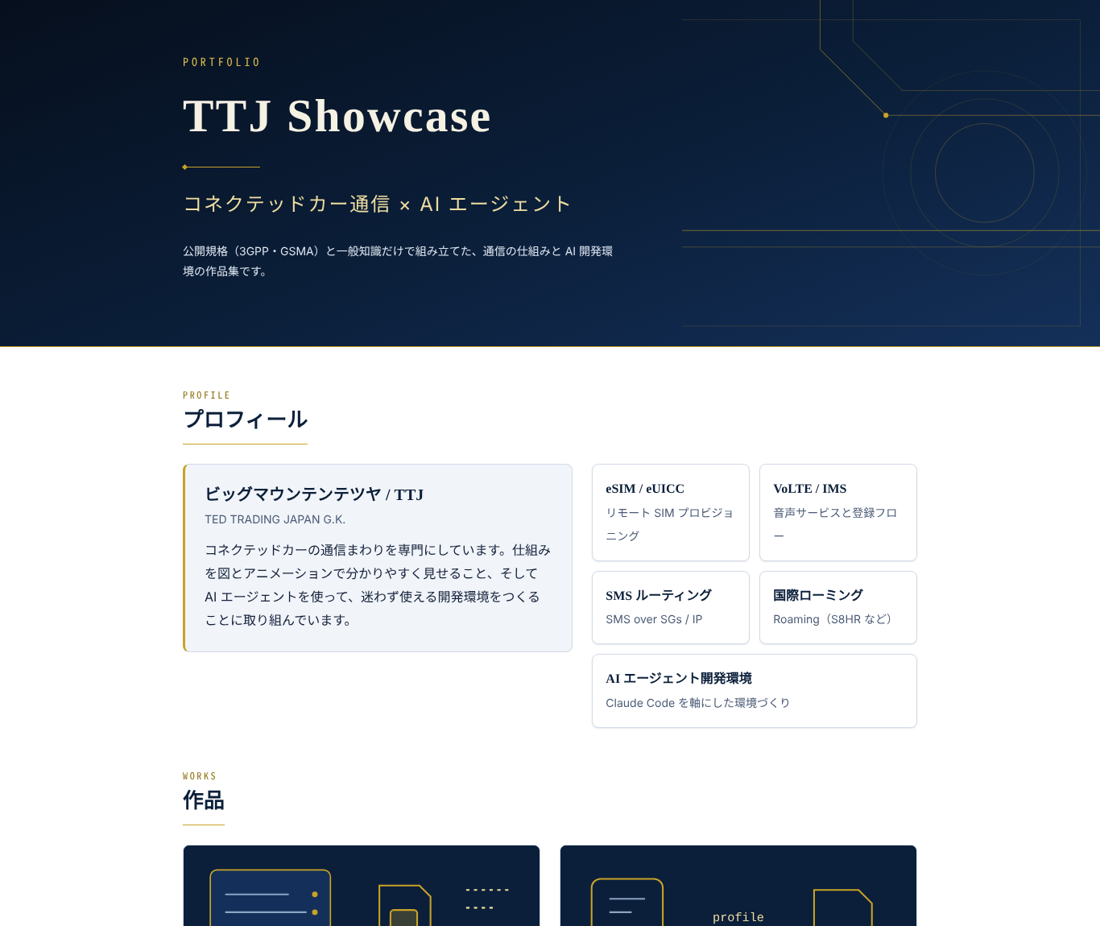
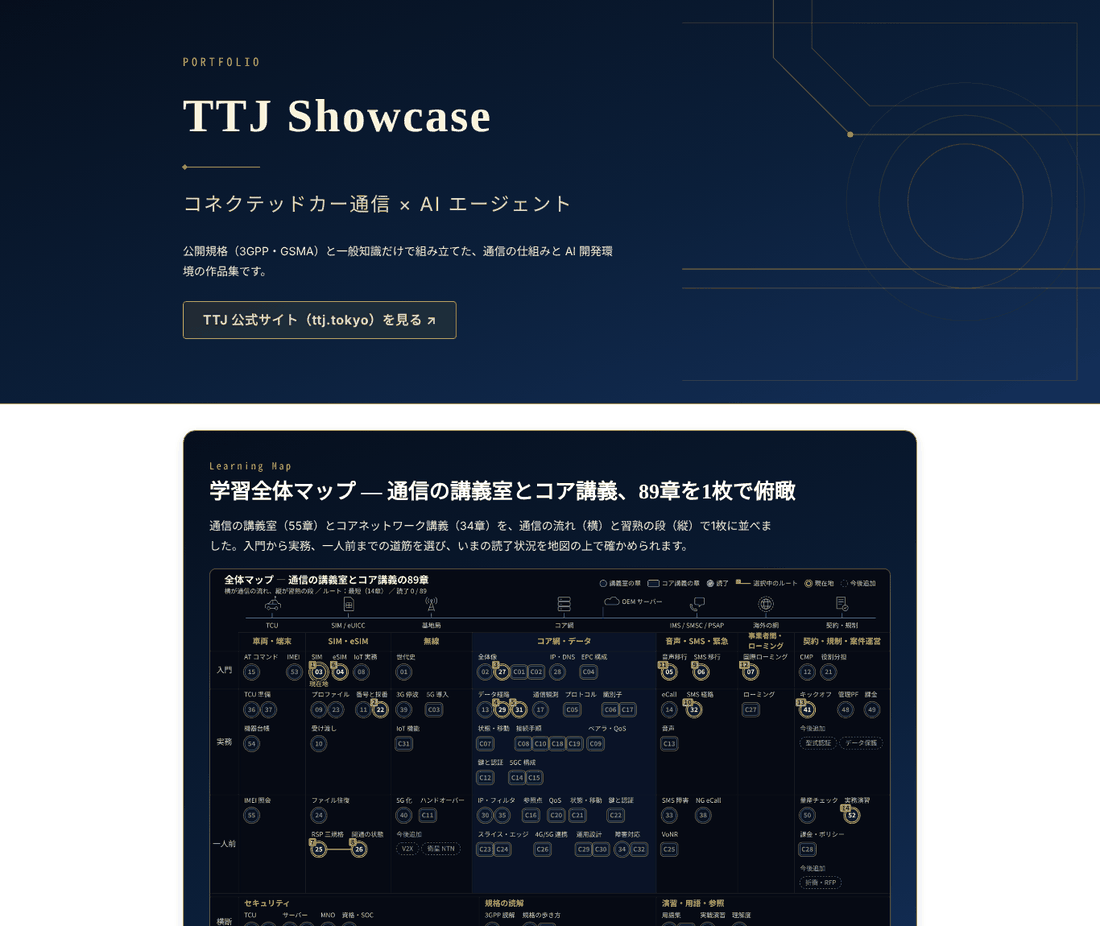
通信の講義室：章へ移動するときいったん先頭へ戻る動きを解消し、地図の再描画を静かにする／README の画面写真を更新
- 章末の「次へ」・目次・章ジャンプ・地図の点・キーボードで章へ移動すると、スクロール位置が先頭（0）へ置き直されてから
  目的の章へ滑る動きを、実測（Chromium のトレース）で確認した。章内リンクの移動を JS で指定する方式に変更（現在位置から動く）。
  URL に #章 を付けて開いたときも、先頭から滑らずその章を直接表示する。「戻る」で元の位置へ戻れる。
- 全体マップ：読了や読了イベントで内容が変わらないときは DOM を差し替えない。幅合わせで width を空にして測り直す往復をやめた。
- README の docs/images/portfolio.png を、特集枠を足した現在のポートフォリオ上部（1366px）に差し替え。

Claude-Session: https://claude.ai/code/session_01TAiW6LFh45hysCjaHYhst4

diff --git a/showcase/sdv-dojo/index.html b/showcase/sdv-dojo/index.html
@@ -852,6 +852,51 @@ nav#side a.ns-nav{margin-top:14px;border-left-color:var(--ttj-gold-500);color:va
 .lh-map th{position:sticky;top:0;background:var(--m-panel);color:var(--m-goldink);}
 .lh-map td a{color:var(--m-blue);}
 </style>
+<script>
+/* 章内リンク（#…）の移動：ブラウザ任せのフラグメント移動ではなく、ここで移動先を指定して動かす。
+   背景：実機（Chromium）の計測で、最初の同一文書内リンクのクリック直後に、スクロール位置がいったん先頭（0）へ
+   置き直され、そこから目的の章まで滑る、という動きが再現した（長い一枚ページ＋スムーズスクロール）。
+   移動先を JS で指定すれば、現在位置からそのまま動く。<head> に置くので、DOM の用意を待たない。 */
+(function(){
+ 'use strict';
+ var root=document.documentElement;
+ function decode(h){try{return decodeURIComponent(h);}catch(e){return null;}}
+ /* 移動先に Tab の起点を移す。見た目の枠は出さない（操作できる部品ではないため） */
+ var st=document.createElement('style');
+ st.textContent='[data-sdv-jump]:focus{outline:none;}';
+ document.head.appendChild(st);
+ function jump(id){
+  var t=id?document.getElementById(id):null;if(!t)return false;
+  if(location.hash!=='#'+id){
+   try{history.pushState(null,'','#'+id);}catch(e){location.hash=id;return true;}   /* 「戻る」で元の位置へ戻れる */
+  }
+  /* 既存の revealHash が、絞り込みと折りたたみを解く（hashchange を購読している） */
+  try{window.dispatchEvent(new HashChangeEvent('hashchange'));}catch(e){}
+  t.scrollIntoView({block:'start'});                    /* CSS の scroll-behavior と scroll-margin-top に従う */
+  if(!/^(A|BUTTON|INPUT|SELECT|TEXTAREA|SUMMARY)$/.test(t.tagName)&&!t.hasAttribute('tabindex')){t.setAttribute('tabindex','-1');t.setAttribute('data-sdv-jump','');}
+  try{t.focus({preventScroll:true});}catch(e){}
+  return true;
+ }
+ window.sdvJump=jump;
+ document.addEventListener('click',function(e){
+  if(e.defaultPrevented||e.button!==0||e.metaKey||e.ctrlKey||e.shiftKey||e.altKey)return;
+  var a=e.target.closest&&e.target.closest('a[href^="#"]');if(!a)return;
+  var tg=a.getAttribute('target');if(tg&&tg!=='_self')return;
+  var h=a.getAttribute('href');if(h.length<2)return;
+  var id=decode(h.slice(1));if(!id||!document.getElementById(id))return;
+  e.preventDefault();jump(id);
+ });
+ /* URL に #章 を付けて開いたときは、先頭から滑らせず、その章を直接表示する */
+ if(location.hash.length>1){
+  root.style.scrollBehavior='auto';
+  var back=function(){root.style.scrollBehavior='';};
+  window.addEventListener('load',function(){setTimeout(back,600);});
+  window.addEventListener('wheel',back,{once:true,passive:true});
+  window.addEventListener('touchstart',back,{once:true,passive:true});
+  window.addEventListener('keydown',back,{once:true});
+ }
+})();
+</script>
 </head>
 <body>
 <a class="sdv-skip" href="#sdv-overview">学習メニュー（検索）へ移動</a>
@@ -3741,7 +3786,7 @@ function revealHash(){
 }
 window.addEventListener('hashchange',revealHash);
 document.addEventListener('click',e=>{const a=e.target.closest('a[href^="#"]');if(a&&a.hash&&a.hash===location.hash)setTimeout(revealHash,0);});
-$('sdv-chapter-select').onchange=e=>{const v=e.target.value;if(!v)return;if(location.hash==='#'+v)revealHash();else location.hash=v;e.target.value='';};
+$('sdv-chapter-select').onchange=e=>{const v=e.target.value;if(!v)return;if(window.sdvJump)window.sdvJump(v);else if(location.hash==='#'+v)revealHash();else location.hash=v;e.target.value='';};
 $('sdv-motion').onclick=()=>{const off=document.body.classList.toggle('sdv-motion-off');$('sdv-motion').setAttribute('aria-pressed',off?'true':'false');$('sdv-motion').textContent=off?'動きを再開':'動きを止める';};
 let printDetails=[];window.addEventListener('beforeprint',()=>{printDetails=[...document.querySelectorAll('main details')].map(d=>[d,d.open]);printDetails.forEach(x=>{x[0].open=true;});});window.addEventListener('afterprint',()=>printDetails.forEach(x=>{x[0].open=x[1];}));
 const toTop=document.querySelector('.sdv-to-top');
@@ -4154,10 +4199,15 @@ var MAPDATA={"cols":[{"k":"T","name":"車両・端末","x":80,"w":190,"icon":"tc
 
  /* ---------- 描画 ---------- */
  var dynEl=null;
+ /* 同じ内容のときは差し替えない（高さ・フォーカス・ホバーを動かさない） */
+ var memo={};
+ function setHtml(key,el,html){if(memo[key]===html&&el.firstChild)return false;memo[key]=html;el.innerHTML=html;return true;}
+ function setText(el,t){if(el.textContent!==t)el.textContent=t;}
  function renderAll(){
   var st=getState();
   if(!rov||!userMoved)rov=st.cur||'S01';
   var C=liveC;
+  memo.dyn=null;
   stageEl.innerHTML=svgOpen(kind,{})+'<g>'+(kind==='h'?bgH(C,{}):bgV(C,{}))+'</g><g id="lhMapDyn"></g></svg>';
   dynEl=stageEl.querySelector('#lhMapDyn');
   stageEl.setAttribute('data-layout',kind);
@@ -4165,7 +4215,9 @@ var MAPDATA={"cols":[{"k":"T","name":"車両・端末","x":80,"w":190,"icon":"tc
  }
  function paintDyn(st,anim){
   var act=document.activeElement,keep=(act&&act.classList&&act.classList.contains('mn')&&stageEl.contains(act))?act.getAttribute('data-id'):null;
-  dynEl.innerHTML=dynMarkup(kind,st,liveC,{anim:anim&&!reduce.matches});
+  var html=dynMarkup(kind,st,liveC,{anim:anim&&!reduce.matches});
+  if(!anim&&memo.dyn===html)return;
+  memo.dyn=html;dynEl.innerHTML=html;
   if(anim&&!reduce.matches){
    var p=dynEl.querySelector('path.rt0');
    if(p){requestAnimationFrame(function(){requestAnimationFrame(function(){p.classList.remove('rt0');});});}
@@ -4176,7 +4228,7 @@ var MAPDATA={"cols":[{"k":"T","name":"車両・端末","x":80,"w":190,"icon":"tc
   var st=getState();
   if(!userMoved)rov=st.cur||'S01';
   paintDyn(st,anim);
-  cntEl.textContent='読了 '+st.n+' / '+CH.length+(st.cur?'':'　このルートは読了');
+  setText(cntEl,'読了 '+st.n+' / '+CH.length+(st.cur?'':'　このルートは読了'));
   buildTable(st);buildOrder(st);
   if(selId)showDetail(selId,st);
   hideTip();
@@ -4186,13 +4238,13 @@ var MAPDATA={"cols":[{"k":"T","name":"車両・端末","x":80,"w":190,"icon":"tc
  var ordEl=$('lhMapOrder'),ordH=$('lhMapOrderH');
  function buildOrder(st){
   if(!ordEl)return;
-  ordH.textContent='順路の一覧 ― '+st.route.name+'ルート（'+st.route.ids.length+'章）';
+  setText(ordH,'順路の一覧 ― '+st.route.name+'ルート（'+st.route.ids.length+'章）');
   var h=[];
   st.route.ids.forEach(function(id){
    var it=byId[id],rd=st.isRead(it),cu=st.cur===id,no=(it.course==='sdv'?'':'C')+it.num;
    h.push('<li'+(rd?' class="rd"':'')+(cu?' class="cu"':'')+'><a href="'+esc(it.href)+'"><span class="no">'+no+'</span><span class="tt">'+esc(it.title)+'</span>'+(cu?'<span class="st cur">現在地</span>':(rd?'<span class="st">読了</span>':''))+'</a></li>');
   });
-  ordEl.innerHTML=h.join('');
+  setHtml('ord',ordEl,h.join(''));
  }
 
  /* ---------- 表（代替表示） ---------- */
@@ -4202,7 +4254,7 @@ var MAPDATA={"cols":[{"k":"T","name":"車両・端末","x":80,"w":190,"icon":"tc
    var d=describe(it,st);
    h.push('<tr><td>'+d.k+'</td><td><a href="'+esc(it.href)+'">'+esc(it.title)+'</a></td><td>'+esc(d.area)+'</td><td>'+esc(d.stage)+'</td><td>'+(d.read?'読了':'未読')+'</td></tr>');
   });
-  tblBody.innerHTML=h.join('');
+  setHtml('tbl',tblBody,h.join(''));
  }
 
  /* ---------- ツールチップ・詳細欄 ---------- */
@@ -4381,9 +4433,11 @@ var MAPDATA={"cols":[{"k":"T","name":"車両・端末","x":80,"w":190,"icon":"tc
  /* ---------- 幅に合わせる（実幅で 横長／縦長 を切り替える） ---------- */
  function fit(){
   var parent=sec.parentNode,vw=document.documentElement.clientWidth;
-  sec.style.width='';sec.style.marginLeft='';
+  /* 親の左端は、この枠の幅や余白に左右されない。測るために width を空にして戻す、という往復をしない */
   var W=vw<700?vw:Math.min(1880,vw-32),pl=parent.getBoundingClientRect().left;
-  sec.style.width=W+'px';sec.style.marginLeft=Math.round((vw-W)/2-pl)+'px';
+  var nw=W+'px',nm=Math.round((vw-W)/2-pl)+'px';
+  if(sec.style.width!==nw)sec.style.width=nw;
+  if(sec.style.marginLeft!==nm)sec.style.marginLeft=nm;
   var nk=sec.clientWidth>=HMIN?'h':'v';
   if(nk!==kind||!dynEl){kind=nk;hideDetail();renderAll();updateAll(false);}
  }

diff --git a/showcase/learning-map/index.html b/showcase/learning-map/index.html
@@ -634,10 +634,15 @@ var MAPDATA={"cols":[{"k":"T","name":"車両・端末","x":80,"w":190,"icon":"tc
 
  /* ---------- 描画 ---------- */
  var dynEl=null;
+ /* 同じ内容のときは差し替えない（高さ・フォーカス・ホバーを動かさない） */
+ var memo={};
+ function setHtml(key,el,html){if(memo[key]===html&&el.firstChild)return false;memo[key]=html;el.innerHTML=html;return true;}
+ function setText(el,t){if(el.textContent!==t)el.textContent=t;}
  function renderAll(){
   var st=getState();
   if(!rov||!userMoved)rov=st.cur||'S01';
   var C=liveC;
+  memo.dyn=null;
   stageEl.innerHTML=svgOpen(kind,{})+'<g>'+(kind==='h'?bgH(C,{}):bgV(C,{}))+'</g><g id="lhMapDyn"></g></svg>';
   dynEl=stageEl.querySelector('#lhMapDyn');
   stageEl.setAttribute('data-layout',kind);
@@ -645,7 +650,9 @@ var MAPDATA={"cols":[{"k":"T","name":"車両・端末","x":80,"w":190,"icon":"tc
  }
  function paintDyn(st,anim){
   var act=document.activeElement,keep=(act&&act.classList&&act.classList.contains('mn')&&stageEl.contains(act))?act.getAttribute('data-id'):null;
-  dynEl.innerHTML=dynMarkup(kind,st,liveC,{anim:anim&&!reduce.matches});
+  var html=dynMarkup(kind,st,liveC,{anim:anim&&!reduce.matches});
+  if(!anim&&memo.dyn===html)return;
+  memo.dyn=html;dynEl.innerHTML=html;
   if(anim&&!reduce.matches){
    var p=dynEl.querySelector('path.rt0');
    if(p){requestAnimationFrame(function(){requestAnimationFrame(function(){p.classList.remove('rt0');});});}
@@ -656,7 +663,7 @@ var MAPDATA={"cols":[{"k":"T","name":"車両・端末","x":80,"w":190,"icon":"tc
   var st=getState();
   if(!userMoved)rov=st.cur||'S01';
   paintDyn(st,anim);
-  cntEl.textContent='読了 '+st.n+' / '+CH.length+(st.cur?'':'　このルートは読了');
+  setText(cntEl,'読了 '+st.n+' / '+CH.length+(st.cur?'':'　このルートは読了'));
   buildTable(st);buildOrder(st);
   if(selId)showDetail(selId,st);
   hideTip();
@@ -666,13 +673,13 @@ var MAPDATA={"cols":[{"k":"T","name":"車両・端末","x":80,"w":190,"icon":"tc
  var ordEl=$('lhMapOrder'),ordH=$('lhMapOrderH');
  function buildOrder(st){
   if(!ordEl)return;
-  ordH.textContent='順路の一覧 ― '+st.route.name+'ルート（'+st.route.ids.length+'章）';
+  setText(ordH,'順路の一覧 ― '+st.route.name+'ルート（'+st.route.ids.length+'章）');
   var h=[];
   st.route.ids.forEach(function(id){
    var it=byId[id],rd=st.isRead(it),cu=st.cur===id,no=(it.course==='sdv'?'':'C')+it.num;
    h.push('<li'+(rd?' class="rd"':'')+(cu?' class="cu"':'')+'><a href="'+esc(it.href)+'"><span class="no">'+no+'</span><span class="tt">'+esc(it.title)+'</span>'+(cu?'<span class="st cur">現在地</span>':(rd?'<span class="st">読了</span>':''))+'</a></li>');
   });
-  ordEl.innerHTML=h.join('');
+  setHtml('ord',ordEl,h.join(''));
  }
 
  /* ---------- 表（代替表示） ---------- */
@@ -682,7 +689,7 @@ var MAPDATA={"cols":[{"k":"T","name":"車両・端末","x":80,"w":190,"icon":"tc
    var d=describe(it,st);
    h.push('<tr><td>'+d.k+'</td><td><a href="'+esc(it.href)+'">'+esc(it.title)+'</a></td><td>'+esc(d.area)+'</td><td>'+esc(d.stage)+'</td><td>'+(d.read?'読了':'未読')+'</td></tr>');
   });
-  tblBody.innerHTML=h.join('');
+  setHtml('tbl',tblBody,h.join(''));
  }
 
  /* ---------- ツールチップ・詳細欄 ---------- */
@@ -861,9 +868,11 @@ var MAPDATA={"cols":[{"k":"T","name":"車両・端末","x":80,"w":190,"icon":"tc
  /* ---------- 幅に合わせる（実幅で 横長／縦長 を切り替える） ---------- */
  function fit(){
   var parent=sec.parentNode,vw=document.documentElement.clientWidth;
-  sec.style.width='';sec.style.marginLeft='';
+  /* 親の左端は、この枠の幅や余白に左右されない。測るために width を空にして戻す、という往復をしない */
   var W=vw<700?vw:Math.min(1880,vw-32),pl=parent.getBoundingClientRect().left;
-  sec.style.width=W+'px';sec.style.marginLeft=Math.round((vw-W)/2-pl)+'px';
+  var nw=W+'px',nm=Math.round((vw-W)/2-pl)+'px';
+  if(sec.style.width!==nw)sec.style.width=nw;
+  if(sec.style.marginLeft!==nm)sec.style.marginLeft=nm;
   var nk=sec.clientWidth>=HMIN?'h':'v';
   if(nk!==kind||!dynEl){kind=nk;hideDetail();renderAll();updateAll(false);}
  }
